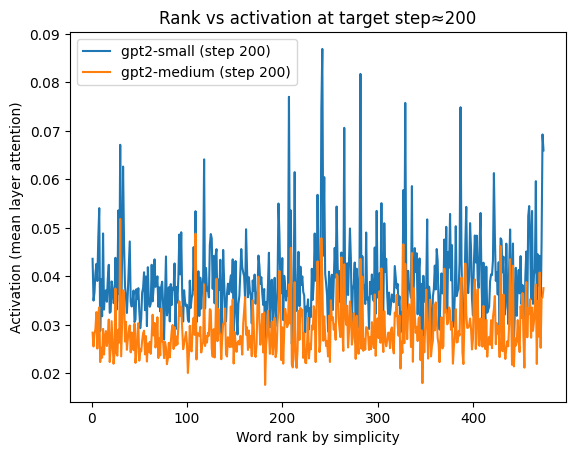
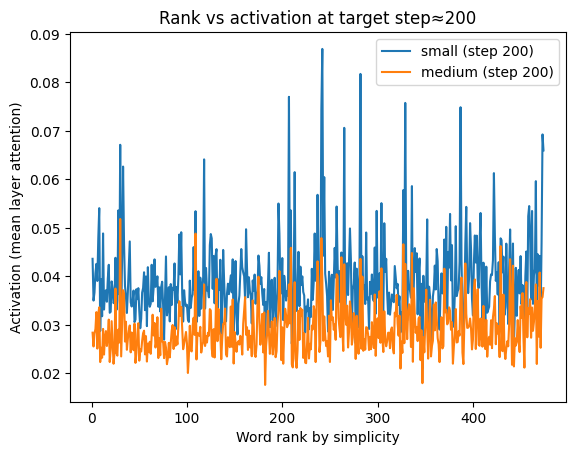
modified plots

Changed region(s): [[0.125, 0.0923, 0.5312, 0.1846], [0.6562, 0.0923, 0.9688, 0.1846]]

diff --git a/src/experiments/plot.py b/src/experiments/plot.py
@@ -244,9 +244,9 @@ def main():
             plt.plot(steps_small, avg_small, label="gpt2-small")
             plt.plot(steps_medium, avg_medium, label="gpt2-medium")
             if not math.isnan(small_mean):
-                plt.axhline(small_mean, linestyle="--", linewidth=1, label="AoA threshold small (mean)")
+                plt.axhline(small_mean, linestyle="--", linewidth=1, color="cornflowerblue", label="AoA threshold small (mean)")
             if not math.isnan(med_mean):
-                plt.axhline(med_mean, linestyle="--", linewidth=1, label="AoA threshold medium (mean)")
+                plt.axhline(med_mean, linestyle="--", linewidth=1, color="orange", label="AoA threshold medium (mean)")
             plt.xlabel(f"{label_type_small or 'step'}")
             plt.ylabel("Average surprisal (bits)")
             plt.title(f"Top {k} simple words: surprisal vs {label_type_small or 'step'}")
@@ -268,8 +268,8 @@ def main():
             avg_medium_act = compute_avg_series(medium_act, words_k)
 
             fig = plt.figure()
-            plt.plot(steps_small, avg_small_act, label="small")
-            plt.plot(steps_medium, avg_medium_act, label="medium")
+            plt.plot(steps_small, avg_small_act, label="gpt2-small")
+            plt.plot(steps_medium, avg_medium_act, label="gpt2-medium")
             plt.xlabel(f"{label_type_small or 'step'}")
             plt.ylabel("Average activation (mean layer attention)")
             plt.title(f"Top {k} simple words: activation vs {label_type_small or 'step'}")
@@ -291,8 +291,8 @@ def main():
             y_medium = np.array([aoa_medium[w] for w in common_for_aoa])
 
             fig2 = plt.figure()
-            plt.plot(ranks, y_small, label="gpt2-small")
-            plt.plot(ranks, y_medium, label="gpt2-medium")
+            plt.plot(ranks, y_small, label="small")
+            plt.plot(ranks, y_medium, label="medium")
             plt.xlabel("Word rank by simplicity (Wordbank AoA, lower = earlier)")
             plt.ylabel("Neural AoA (normalized training step)")
             plt.title("Neural AoA vs simplicity rank")
@@ -334,8 +334,8 @@ def main():
             acts_medium_arr = np.array(acts_medium, dtype=float)
 
             fig3 = plt.figure()
-            plt.plot(ranks_arr, acts_small_arr, label=f"gpt2-small (step {actual_s})")
-            plt.plot(ranks_arr, acts_medium_arr, label=f"gpt2-medium (step {actual_m})")
+            plt.plot(ranks_arr, acts_small_arr, label=f"small (step {actual_s})")
+            plt.plot(ranks_arr, acts_medium_arr, label=f"medium (step {actual_m})")
             plt.xlabel("Word rank by simplicity")
             plt.ylabel("Activation (mean layer attention)")
             plt.title(f"Rank vs activation at target step≈{target}")
